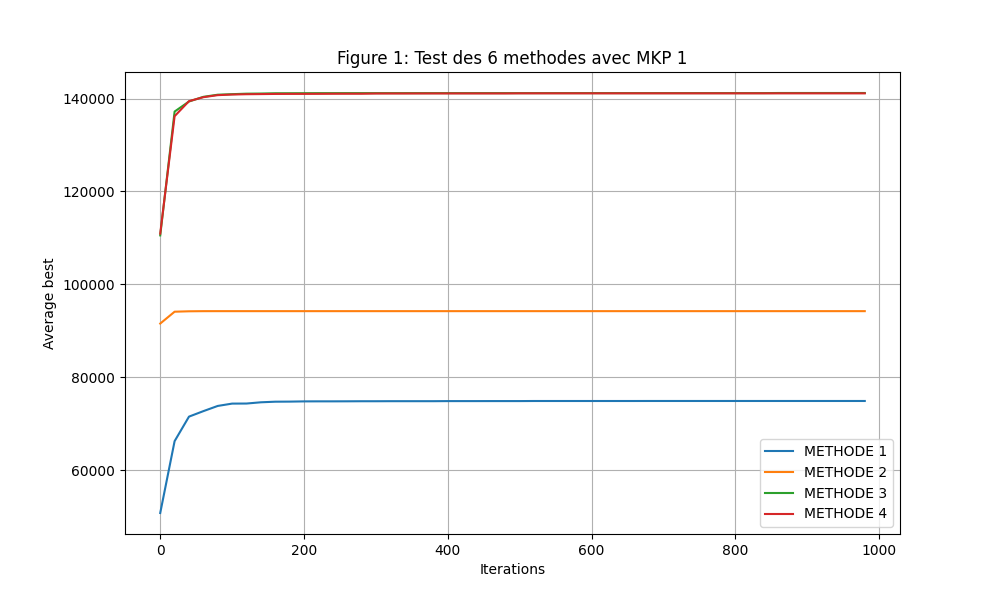
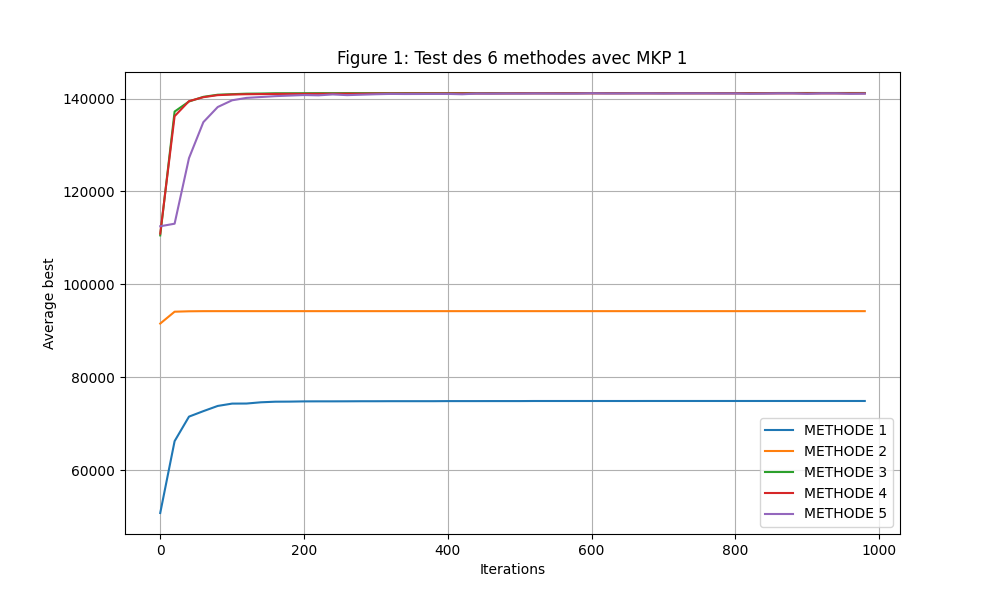
:construction: new method curves and excel sheet file generation

diff --git a/src/results_analysis/table_analysis.py b/src/results_analysis/table_analysis.py
@@ -21,16 +21,16 @@ def process_file(file_path):
 
 # Main script to process all files
 file_paths = [
-    "src/results/bpso2-results/mkp1.txt",
-    "src/results/bpso2-results/mkp2.txt",
-    "src/results/bpso2-results/mkp3.txt",
-    "src/results/bpso2-results/mkp4.txt",
-    "src/results/bpso2-results/mkp5.txt",
-    "src/results/bpso2-results/mkp6.txt",
-    "src/results/bpso2-results/mkp7.txt",
-    "src/results/bpso2-results/mkp8.txt",
-    "src/results/bpso2-results/mkp9.txt",
-    "src/results/bpso2-results/mkp10.txt",
+    "src/results/hybrid-ga-pso-results/mkp1.txt",
+    "src/results/hybrid-ga-pso-results/mkp2.txt",
+    "src/results/hybrid-ga-pso-results/mkp3.txt",
+    "src/results/hybrid-ga-pso-results/mkp4.txt",
+    "src/results/hybrid-ga-pso-results/mkp5.txt",
+    "src/results/hybrid-ga-pso-results/mkp6.txt",
+    "src/results/hybrid-ga-pso-results/mkp7.txt",
+    "src/results/hybrid-ga-pso-results/mkp8.txt",
+    "src/results/hybrid-ga-pso-results/mkp9.txt",
+    "src/results/hybrid-ga-pso-results/mkp10.txt",
 ]  # List of 10 file paths
 
 files_last_iterations = [process_file(file_paths[0])]
@@ -50,8 +50,8 @@ for file_path in file_paths:
 file_path_excel = "src/results/methods-results.xlsx"
 df = pd.read_excel(file_path_excel)
 
-# Write results into the "BPSO2" column for MKP1 to MKP10
-df.loc[:9, "BPSO2"] = results  # First 10 rows correspond to MKP1 to MKP10
+# Write results into the "HYBRID-GA-PSO-RESULTS" column for MKP1 to MKP10
+df.loc[:9, "HYBRID-BSO-GA2"] = results  # First 10 rows correspond to MKP1 to MKP10
 
 # Save the updated Excel file
 updated_file_path = "src/results/methods-results.xlsx"

diff --git a/src/results_analysis/curves_analysis.py b/src/results_analysis/curves_analysis.py
@@ -24,6 +24,7 @@ file_paths = [
     "src/results/bpso2-results/mkp",
     "src/results/bga1-results/mkp",
     "src/results/bga2-results/mkp",
+    "src/results/hybrid-ga-pso-results/mkp",
 ]  # List of 10 file paths
 
 all_averages = []  # List to store the averages for all files
